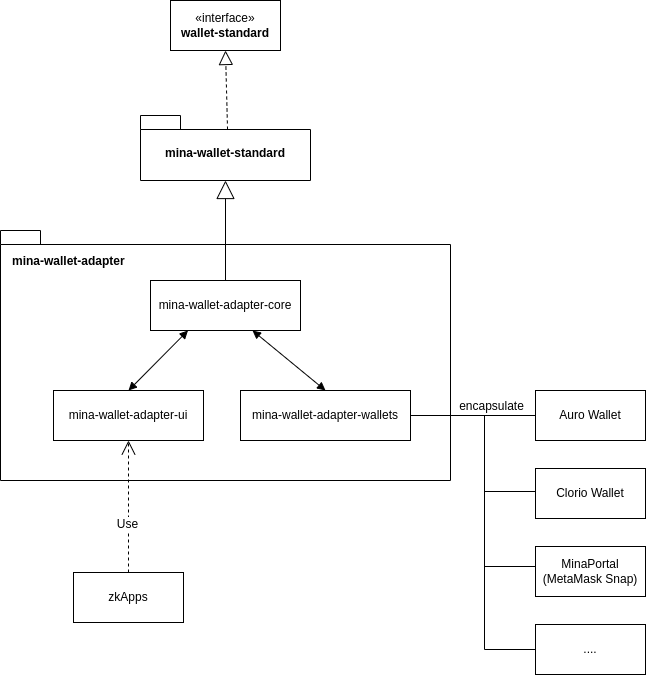
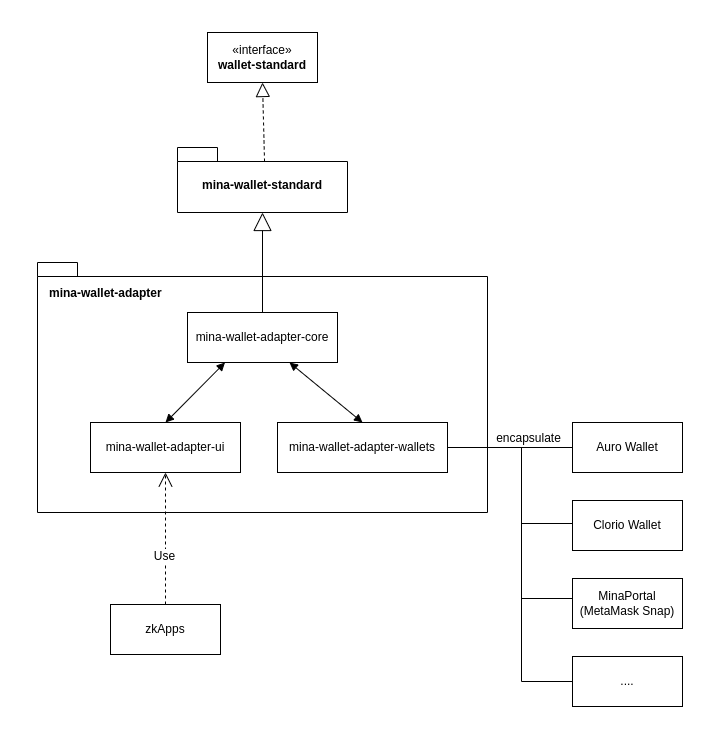
Update ReadMe

diff --git a/README.md b/README.md
@@ -1,3 +1,16 @@
 # Mina Wallet Adapter
 
-Modular wallet adapters and components for Mina Protocol zkApps.
+Modular TypeScript wallet adapters and components designed for Mina zkApps. Add wallet support into your zkApp with just a few lines of code.
+
+## Features
+
+- Wallet Standard support
+- Auto-detection of installed wallets
+- TypeScript
+- Modular UI components for zkApps
+
+<img src="docs/screenshots.png" alt="screenshot" width="720">
+
+## Architecture
+
+![screenshot](docs/design.png)
